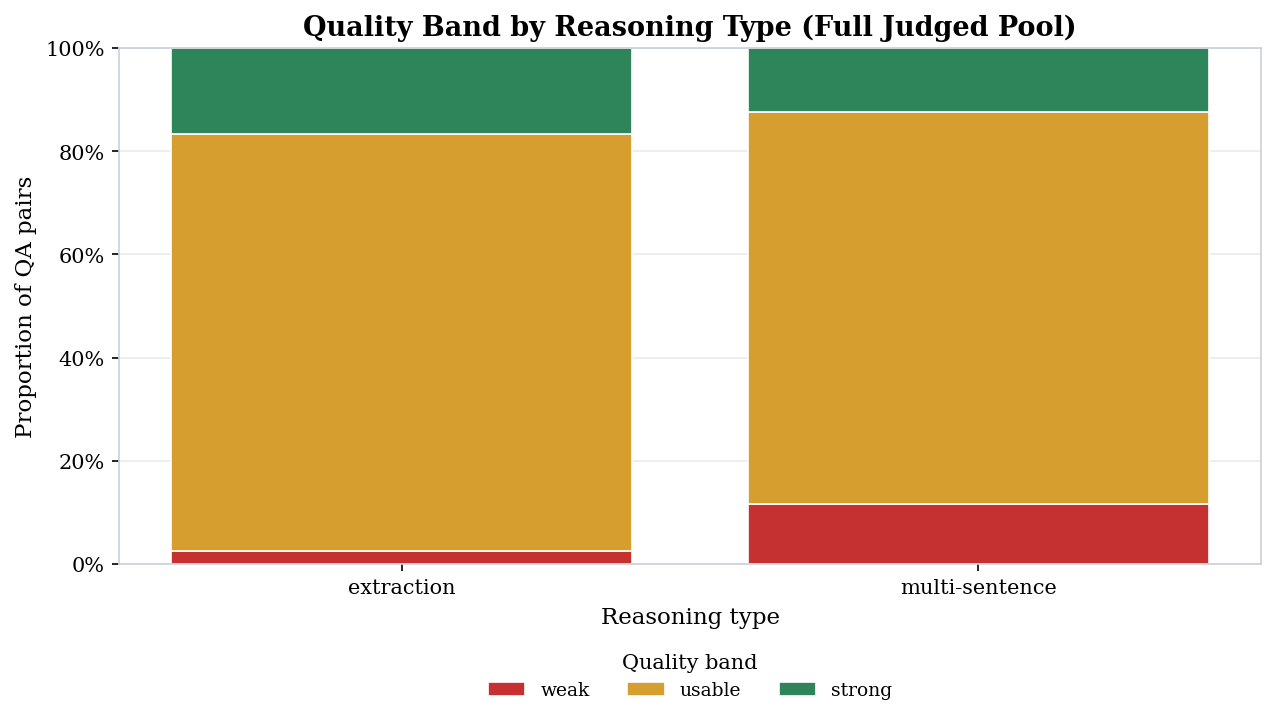
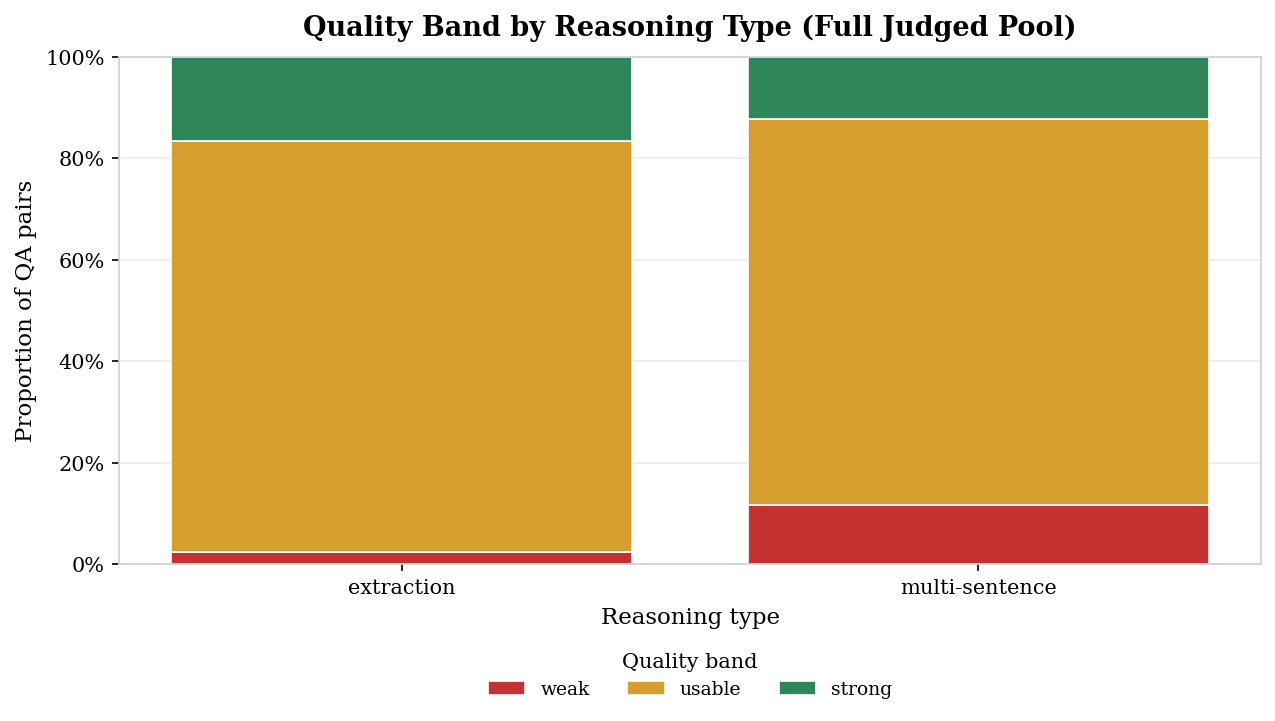
polish qa dataset eda title and legend spacing

diff --git a/eda/scripts/build_qa_dataset_eda.py b/eda/scripts/build_qa_dataset_eda.py
@@ -51,7 +51,7 @@ def draw_reasoning_distribution(df: pd.DataFrame) -> str:
     counts = df["final_reasoning_bucket"].value_counts().reindex(order)
     total = int(counts.sum())
 
-    fig, ax = plt.subplots(figsize=(8.2, 4.8))
+    fig, ax = plt.subplots(figsize=(8.4, 5.2))
     bars = ax.bar(
         counts.index,
         counts.values,
@@ -59,17 +59,19 @@ def draw_reasoning_distribution(df: pd.DataFrame) -> str:
         edgecolor="white",
         linewidth=1.2,
     )
-    ax.set_title("Reasoning Bucket Distribution in the Final Release Dataset")
+    ax.set_title("Reasoning Bucket Distribution in the Final Release Dataset", pad=14)
     ax.set_ylabel("Number of QA pairs")
     ax.set_xlabel("")
     ax.grid(axis="y", alpha=0.25)
     ax.set_axisbelow(True)
 
+    ax.set_ylim(0, float(counts.max()) * 1.24)
+
     for bar, value in zip(bars, counts.values):
         pct = value / total * 100
         ax.text(
             bar.get_x() + bar.get_width() / 2,
-            bar.get_height() + total * 0.012,
+            bar.get_height() + total * 0.016,
             f"{value:,}\n({pct:.1f}%)",
             ha="center",
             va="bottom",
@@ -146,6 +148,8 @@ def draw_stacked_bar(
     legend_loc: str = "upper center",
     legend_bbox: tuple[float, float] = (0.5, -0.14),
     legend_ncol: int | None = None,
+    title_pad: float = 10.0,
+    top_margin: float | None = None,
 ) -> str:
     fig, ax = plt.subplots(figsize=figsize)
     bottom = np.zeros(len(table))
@@ -164,7 +168,7 @@ def draw_stacked_bar(
         )
         bottom += values
 
-    ax.set_title(title)
+    ax.set_title(title, pad=title_pad)
     ax.set_ylabel(ylabel)
     ax.set_xlabel(xlabel)
     ax.set_xticks(x, labels=table.index, rotation=rotate_x, ha="right" if rotate_x else "center")
@@ -180,6 +184,9 @@ def draw_stacked_bar(
         loc=legend_loc,
         bbox_to_anchor=legend_bbox,
     )
+
+    if top_margin is not None:
+        fig.subplots_adjust(top=top_margin)
 
     save_fig(fig, FIGURE_DIR, filename, close=True)
     return filename
@@ -373,8 +380,10 @@ def main() -> None:
             rotate_x=25,
             figsize=(10.2, 5.3),
             legend_loc="lower center",
-            legend_bbox=(0.5, 1.02),
+            legend_bbox=(0.5, 1.12),
             legend_ncol=3,
+            title_pad=22,
+            top_margin=0.82,
         )
     )
 
